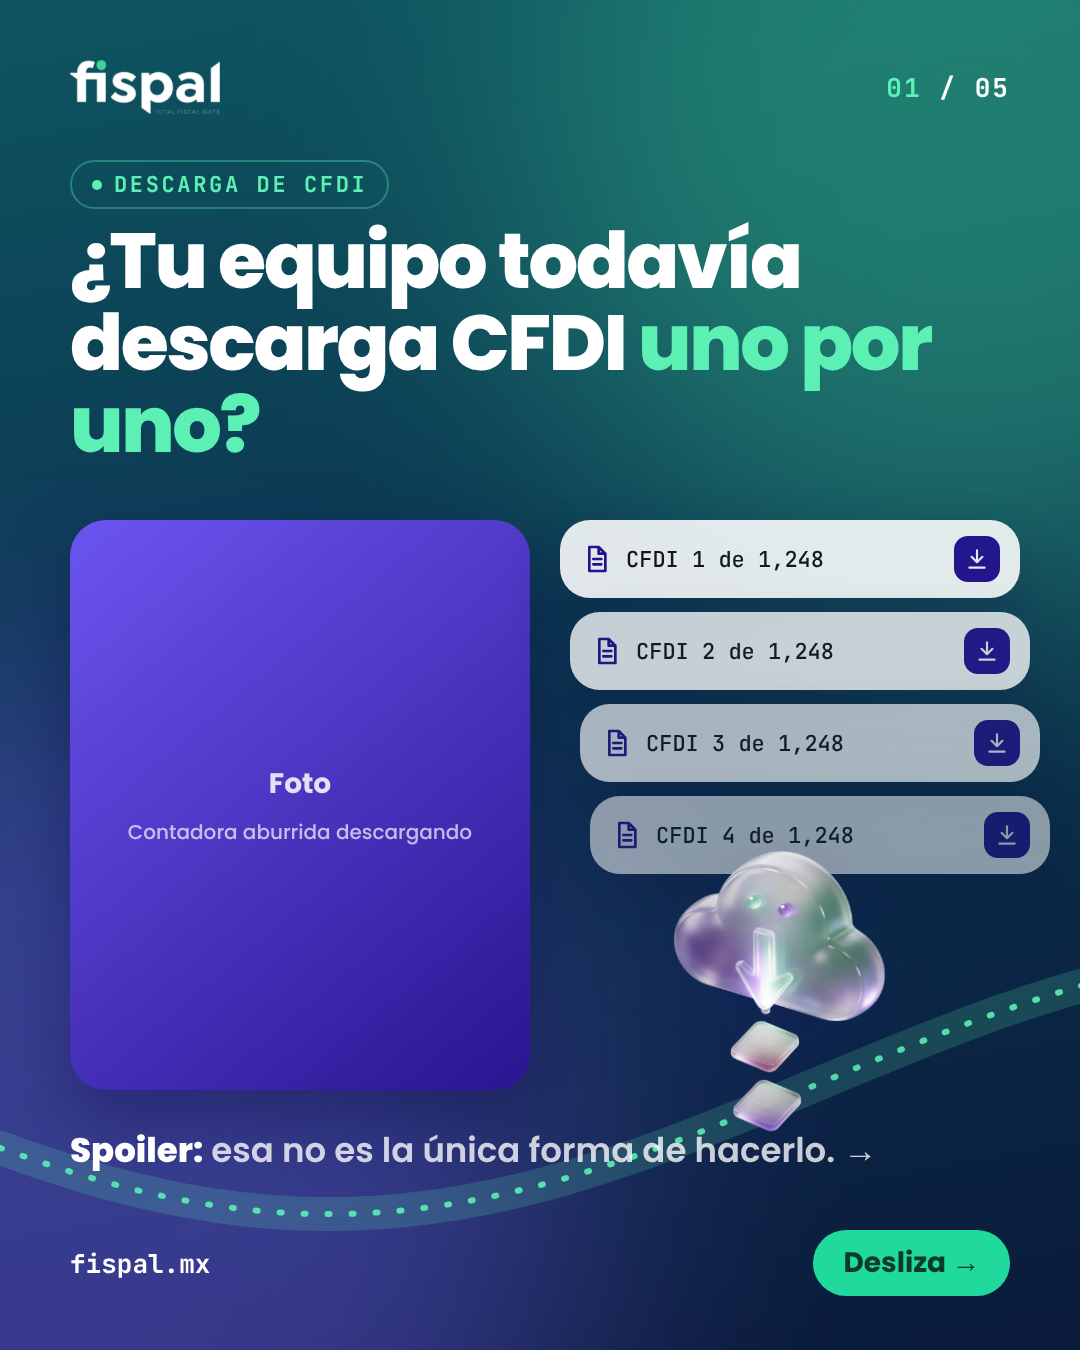
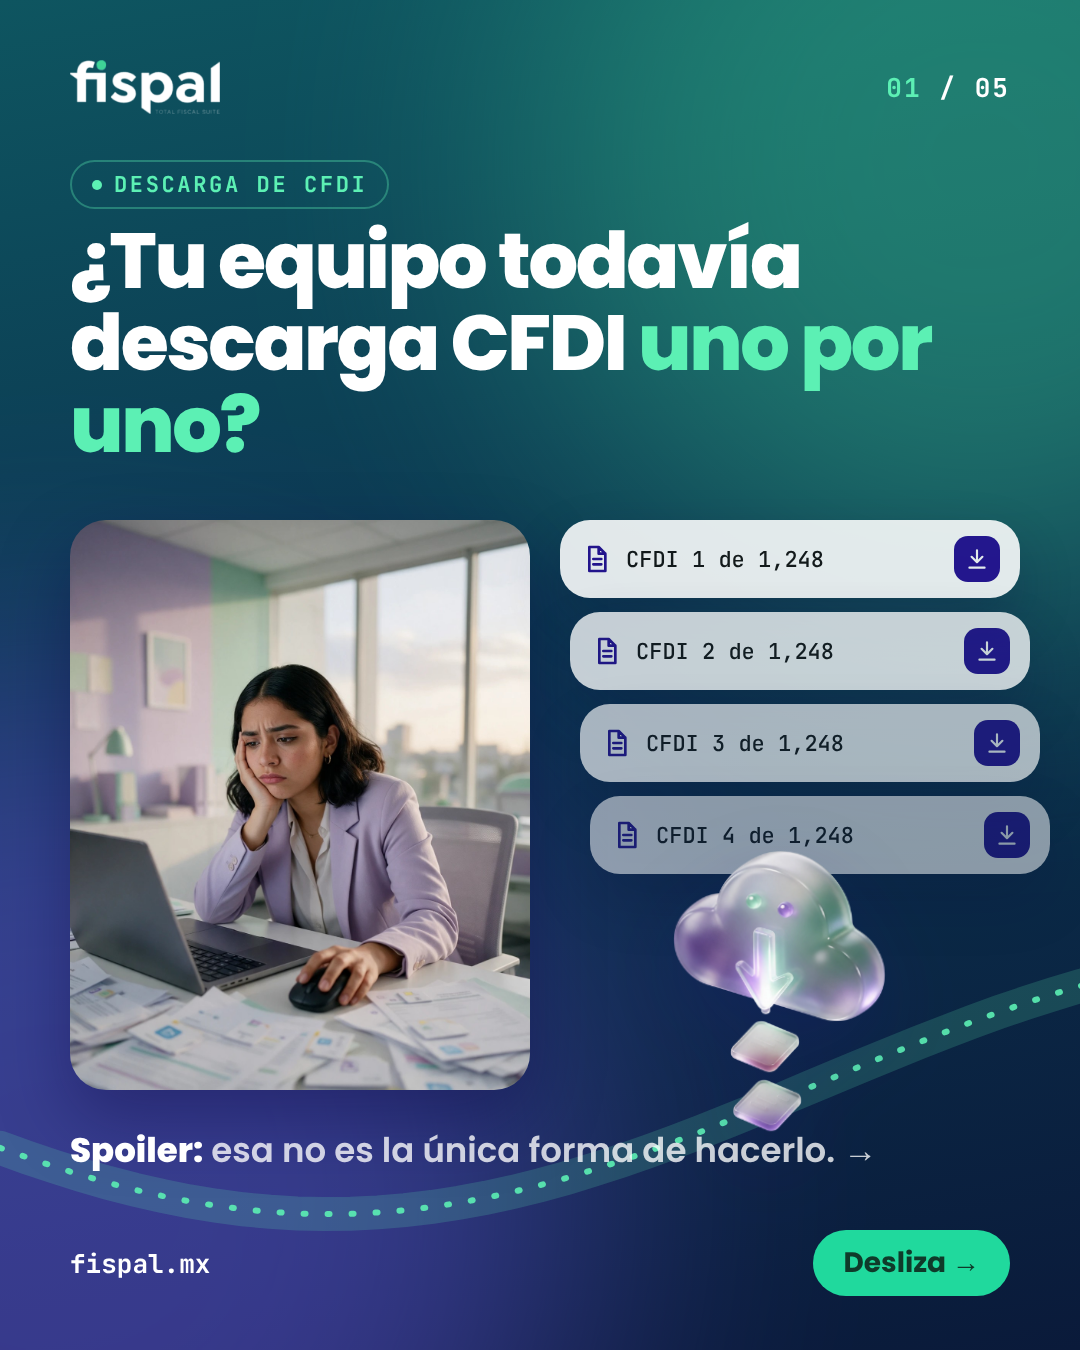
Fispal carrusel 3: Magnific photos in place
Claude-Session: https://claude.ai/code/session_01NghCctPQaKXziVeL1FGG6n

Changed region(s): [[0.0611, 0.3733, 0.4889, 0.8089]]

diff --git a/editor/src/carruseles/C3Descarga.tsx b/editor/src/carruseles/C3Descarga.tsx
@@ -43,7 +43,7 @@ const S1: React.FC = () => (
     <Head>
       <Title t={t} size={78} parts={["¿Tu equipo todavía descarga CFDI ", { hl: "uno por uno?" }]} />
     </Head>
-    <Photo name="c3-repetitivo" hint="Contadora aburrida descargando" position="50% 30%" radius={36} style={{ left: L, top: 520, width: COL, height: 570 }} />
+    <Photo name="c3-repetitivo" hint="Contadora aburrida descargando" position="50% 42%" radius={36} style={{ left: L, top: 520, width: COL, height: 570 }} />
     {/* stack of single-download rows */}
     <div style={{ position: "absolute", left: COL2, top: 520, width: COL, display: "flex", flexDirection: "column", gap: 14 }}>
       {[1, 2, 3, 4].map((k) => (
@@ -156,7 +156,7 @@ const S5: React.FC = () => (
     <div style={{ position: "absolute", left: L, right: 1080 - R, top: 170, textAlign: "center" }}>
       <Title t={t} size={74} parts={["¿Todavía lo hacen ", { hl: "manualmente?" }]} />
     </div>
-    <Photo name="c3-equipo" hint="Equipo de finanzas feliz" position="50% 35%" radius={40} style={{ left: L, right: 1080 - R, top: 400, height: 520 }} ring={MINT} />
+    <Photo name="c3-equipo" hint="Equipo de finanzas feliz" position="50% 45%" radius={40} style={{ left: L, right: 1080 - R, top: 400, height: 520 }} ring={MINT} />
     <Glass3D name="reloj-arena" x={900} y={880} size={250} />
     <div style={{ position: "absolute", left: 0, right: 0, top: 990, display: "flex", flexDirection: "column", alignItems: "center", gap: 18 }}>
       <span style={{ fontFamily: FONT, fontWeight: 800, fontSize: 40, color: "#0A1A3A", background: MINT, borderRadius: 999, padding: "22px 48px", boxShadow: "0 18px 44px rgba(92,240,180,.4)" }}>Prueba Fispal gratis →</span>
